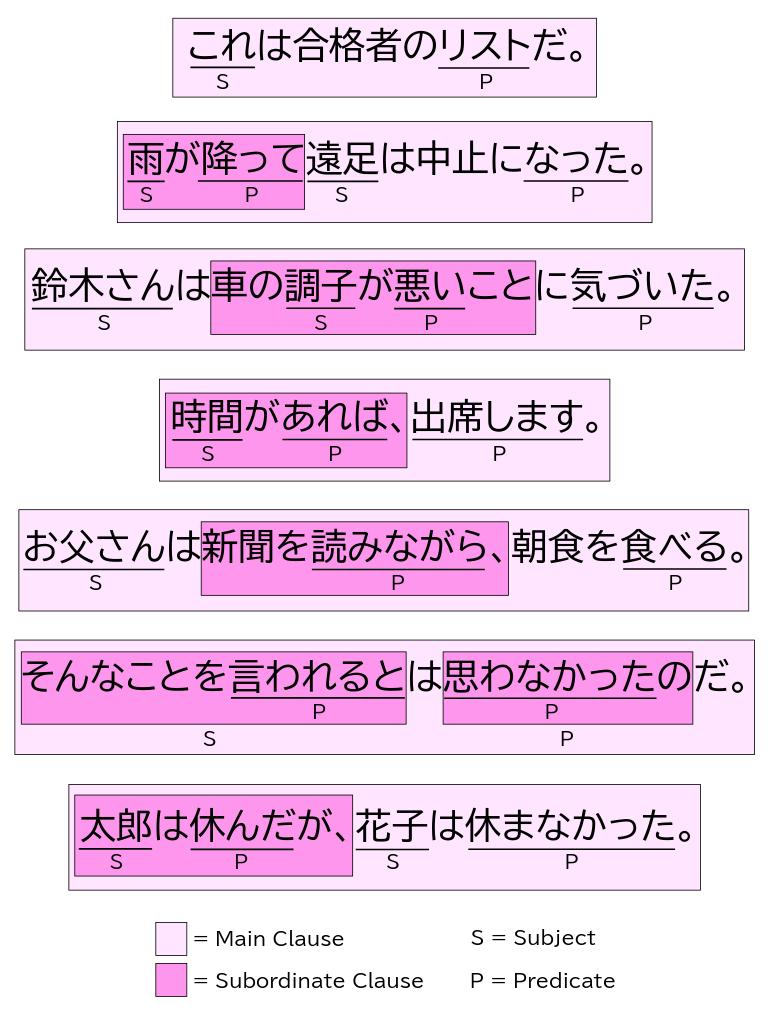
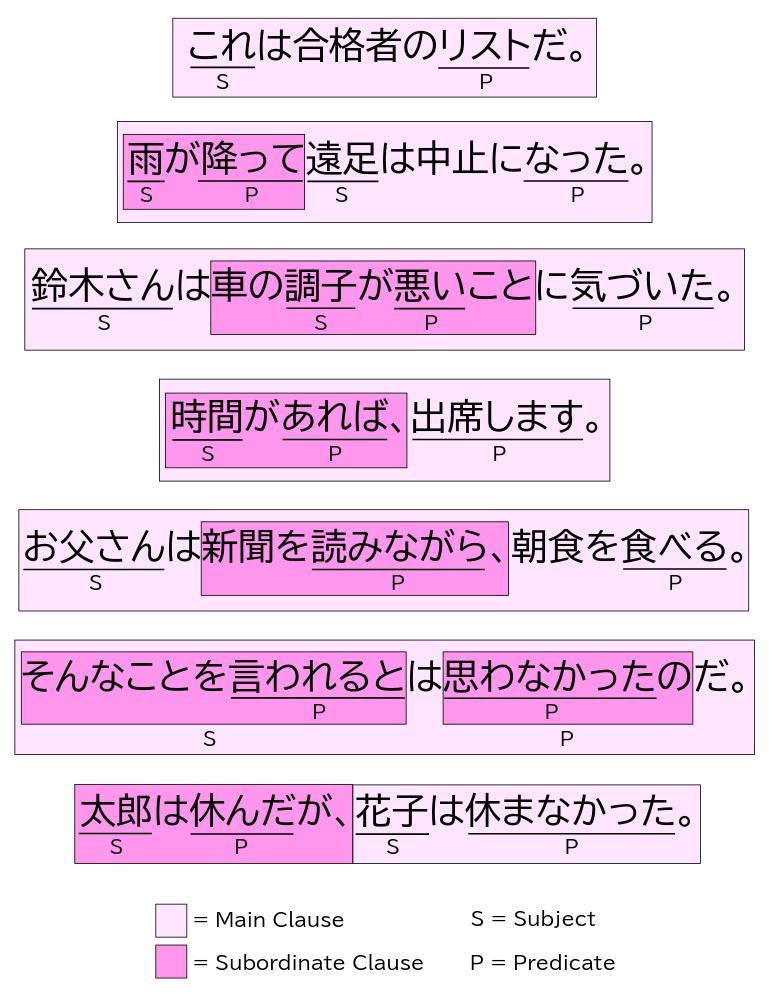
started examples for subord

Changed region(s): [[0.0, 0.0311, 0.9987, 0.9328], [0.6866, 0.0311, 0.749, 0.0622], [0.2185, 0.9328, 0.2497, 0.9639]]

diff --git a/_posts/2024-07-20-wa-vs-ga-2.md b/_posts/2024-07-20-wa-vs-ga-2.md
@@ -66,17 +66,54 @@ This principle is also known as the **principle of subordination**. We use this 
 
 A clause in Japanese is a unit of the language which is **shorter than a sentence** and **longer than its words or phrases**. In its most typical form, each clause in Japanese contains a **subject and a predicate**. It may also contain other words/phrases marked by case markers like を, に, or で; as well as adverbs. You will also come across clauses where the subject isn't explicitly present. Omitting the subject is much more common in Japanese than it is in English.
 
-When a sentence has two or more clauses, the clause with its predicate at the end of the sentence is usually the **main clause**. All clauses that are nested within it are **subordinate clauses**.[^2] If a sentence only has one clause, then that clause is the main clause. Take a look at the following sentences with their clauses highlighted.
+When a sentence has two or more clauses, the clause with its predicate at the end of the sentence is usually the **main clause**. All clauses that are nested within it or come before it are **subordinate clauses**.[^2] If a sentence only has one clause, then that clause is the main clause. Take a look at the following sentences with their clauses highlighted.
 
-[^2]: It's also possible for subordinate clauses to be nested within subordinate clauses.
+[^2]: It's also possible for subordinate clauses to be nested within subordinate clauses. In the image, I use the convention that weakly subordinate clauses are not nested within the main clause; while quotations, strongly subordinate clauses and fully subordinate clauses are. Sentences are from 丸山 (2016) and 劉 (2022).
 
 ![Various structures of subordinate clauses](assets/img/subord.jpg)
 
 Sometimes, a subordinate clause without a subject will take the subject of the main clause. This is the case for the fifth sentence of the examples above (the subject of 読みながら is お父さん).
 
-## Rules of Subordinate Clauses
+## The Subject in Subordinate Clauses
 
-We will go over choosing は vs. が in main clauses in sections. For now, we will focus on how to use 
+We will go over choosing は vs. が in main clauses in sections. For now, let's focus on how to use these particles in subordinate clauses.
+
+There's a general rule that when は marks a subject at the start of a sentence with multiple clauses, it usually marks the subject of all of the clauses. が, on the other hand, usually only marks the subject within its own clause. In other words, whatever は marks is relevant to everything until the end of the sentence, while whatever が marks stays in its own clause. 
+
+This general rule works because **が is most commonly used in subordinate clauses**.
+
+Consider the following sentences (庵功雄, 2012).
+
+>太郎<u>は</u>部屋に入ると、すぐに電気をつけた。<br>太郎<u>が</u>部屋に入ると、すぐに電気をつけた。
+
+Highlighting the clauses gives us the following diagram.
+
+![太郎は部屋に入ると、すぐに電気をつけた。and 太郎が部屋に入ると、すぐに電気をつけた。](assets/img/subord1.jpg)
+
+Here are the correct interpretations of these sentences. 
+
+>太郎<u>は</u>部屋に入ると、すぐに電気をつけた。<br>*As soon as Tarou entered the room, <b><u>he</u></b> turned on the light.*
+
+>太郎<u>が</u>部屋に入ると、すぐに電気をつけた。<br>*As soon as Tarou entered the room, <b><u>I</u></b> turned on the light.*
+
+We change our interpretation of who turns on the light depending on whether は or が is used. In the first example with は, the subject/topic 太郎 **can't** be a part of the subordinate clause 部屋に入ると. This is only possible when 太郎 is not a topic and marked by が. 
+
+Thus, in the first example 太郎 is seen as the subject of both the subordinate clause and the main clause. In the second example, 太郎 is only seen as the subject of the subordinate clause. The subject of the main clause is instead omitted, so it should be clear through context **who else** turned the light on. Strictly speaking, it doesn't have to be "I", the speaker, who turned the light on. It could be someone else in the context of the sentence. But when Japanese speakers omit a subject, they're commonly referring to themselves.
+
+The subordinate clause in the last two examples can't contain a topic. But this isn't true of all subordinate clauses. This subordinate clause in particular is **strongly subordinate**, which means it has a high level of subordination to the main clause. 
+
+## Levels of Subordination
+
+There are four **levels of subordination**, described in the following table.
+
+||Description|
+|:--:|--|--|
+|Full Subordination | This portion of the sentence can't contain any topics or subjects at all, so they are actually phrases, not clauses. |
+|Strong Subordination | The subordinate clause is completely dependent on the main clause. It can contain a subject, but not a topic. |
+|Weak Subordination | The subordinate clause functions like a separate sentence, but still makes up one sentence with the main clause. It can contain a subject or a topic. Rules for choosing between は/が are generally the same as that for the main clause. |
+|Quotative | The subordinate clause is a quote. It can contain a subject or a topic. Rules for choosing between は/が are generally the same as that for the main clause.|
+
+We can usually figure out a subordinate clause's level of subordination by looking at how it ends. The chart below gives common examples of subordinate clauses, as well as its level of subordination and whether that clause is able to contain subject-marking が and topic-marking は.
 
 <table class="tg" style="overflow-x: auto; width: 100%">
     <colgroup>
@@ -98,7 +135,7 @@ We will go over choosing は vs. が in main clauses in sections. For now, we wi
 <tbody>
   <tr>
     <td style="text-align: center;" class="tg-0pky" rowspan="2">Fully<br>Subordinate</td>
-    <td style="text-align: right;" class="tg-0pky">Incidental Clauses</td>
+    <td style="text-align: right;" class="tg-0pky">Incidental Phrases</td>
     <td class="tg-0pky">〜ながら, 〜&#8288;まま, 〜&#8288;て</td>
     <td class="tg-0pky" rowspan="2">×</td>
     <td class="tg-0pky" rowspan="2">×</td>
@@ -115,11 +152,11 @@ We will go over choosing は vs. が in main clauses in sections. For now, we wi
     <td class="tg-0pky" rowspan="7">×</td>
   </tr>
   <tr>
-    <td style="text-align: right;" class="tg-0pky">Suppositional Clauses</td>
+    <td style="text-align: right;" class="tg-0pky">Conditional Clauses</td>
     <td class="tg-0pky">〜たら, 〜(れ)ば, 〜と, 〜&#8288;ては, 〜&#8288;ても</td>
   </tr>
   <tr>
-    <td style="text-align: right;" class="tg-0pky">Situational Clauses</td>
+    <td style="text-align: right;" class="tg-0pky">Manner Clauses</td>
     <td class="tg-0pky">〜ように, 〜ほど</td>
   </tr>
   <tr>
@@ -135,12 +172,12 @@ We will go over choosing は vs. が in main clauses in sections. For now, we wi
     <td class="tg-0pky">〜こと, 〜の, 〜&#8288;か</td>
   </tr>
   <tr>
-    <td style="text-align: right;" class="tg-0pky">Causal Clauses</td>
+    <td style="text-align: right;" class="tg-0pky">Causal Clauses (1)</td>
     <td class="tg-0pky">〜ため, 〜て, 〜から(focus), 〜ので(focus), 〜&#8288;のに(focus)</td>
   </tr>
   <tr>
     <td style="text-align: center;" class="tg-0pky" rowspan="2">Weakly<br>Subordinate</td>
-    <td style="text-align: right;" class="tg-0pky">Causal Clauses</td>
+    <td style="text-align: right;" class="tg-0pky">Causal Clauses (2)</td>
     <td class="tg-0pky">〜から, 〜ので, 〜&#8288;のに</td>
     <td class="tg-0pky" rowspan="2">○</td>
     <td class="tg-0pky" rowspan="2">○</td>
@@ -158,13 +195,86 @@ We will go over choosing は vs. が in main clauses in sections. For now, we wi
   </tr>
 </tbody></table>
 
-## Basic Principles of は/が in Clauses
+## Examples of subordinate clauses＜＞
+
+### Incidental Phrases (付帯状況句)
+
+><span style="color: #ff96ed">[そんなことを考えながら、]</span>眠りについた。<br>*With my mind full of such thoughts, I fell asleep.*
+
+>私は<span style="color: #ff96ed">[目を見開いたまま、]</span>固まってしまった。<br>*I froze with my eyes wide open.*
+
+>皆が席に着くのを確認すると男は<span style="color: #ff96ed">[教壇に立って]</span>話し始めた。<br>*After waiting for everyone to be seated, the man stood at the lecturn and started to speak.*
+
+### Successive Phrases (継起句)
+
+>健一は<span style="color: #ff96ed">[部屋に入っていって]</span>由紀に声をかけた。<br>*Ken'ichi came in and started talking to Yuki.*
+
+>夕食後、僕は<span style="color: #ff96ed">[シャワーを浴び、]</span>歯をみがいた。<br>*After eating dinner, I showered and brushed my teeth.*
+
+### Successive Clauses (継起節)
+
+><span style="color: #ff96ed">[健一が部屋に入っていくと、]</span>由紀は出ていった。<br>*After Ken'ichi came in, Yuki left.*
+
+><span style="color: #ff96ed">[そんなことを考えていたら、]</span>部屋にノックの音が響いた。<br>*As I was thinking about it, I heard a knock on my door.*
+
+><span style="color: #ff96ed">[雨が降って]</span>遠足は中止になった。<br>*It rained, and the outing was postponed.*
+
+><span style="color: #ff96ed">[目の前が真っ暗になり、]</span>意識が遠ざかっていく。<br>*My vision went dark, and I felt myself losing consciousness.*
+
+### Conditional Clauses (仮定節)
+
+><span style="color: #ff96ed">[困ったことがあったら]</span>相談してください。<br>*If there's ever anything troubling you, please reach out to me.*
+
+><span style="color: #ff96ed">[私にできることがあれば、]</span>なんでもおっしゃってください<br>*If there's anything I can do, please tell me.*
+
+><span style="color: #ff96ed">[早く帰らないと、]</span>両親が心配するだろう。<br>*If I don't get home soon, my folks are going to worry.*
+
+><span style="color: #ff96ed">[こんなに雪が降っては、]</span>どこにも出かけられない。<br>*If it keeps snowing like this, I won't be able to go anywhere.*
+
+><span style="color: #ff96ed">[私が謝っても]</span>許してもらえませんか。<br>*Would you forgive me if I said I'm sorry?*
+
+### Manner Clauses (様態節)
+
+>俺は<span style="color: #ff96ed">[その場から逃げるように]</span>立ち去った。<br>*I left quickly to escape that situation.*
+
+>それは<span style="color: #ff96ed">[思わず息を呑むほど]</span>美しい光景だった。<br>*It was a view so beautiful, you'd find yourself holding your breath.*
+
+### Temporal Clauses (時間節)
+
+><span style="color: #ff96ed">[目が覚めた時、]</span>周囲は真っ暗だった。<br>*When I woke up, everything was dark.*
+
+><span style="color: #ff96ed">[疑問や文句が出るまえに、]</span>頭を衝撃が襲う。<br>*I was too stunned to protest or question anything.*
+
+>彼女は<span style="color: #ff96ed">[しばらく何かを考え込んだ後で]</span>口を開いた。<br>*After thinking for a short moment, she spoke.*
+
+><span style="color: #ff96ed">[その理由が分かるまで、]</span>そう時間はかからなかった。<br>*It didn't take long for me to figure out why.*
+
+### Noun-modifying Clauses (連体修飾節)
+
+>やっぱり<span style="color: #ff96ed">[映画館で見る映画]</span>はいいよな。<br>*Movies are so much better in theaters.*
+
+### Nominalized Clauses (名詞節)
+
+>それは<span style="color: #ff96ed">[この場にいる全員が思っていること]</span>だった。<br>*That was what everyone in the room was thinking.*
+
+><span style="color: #ff96ed">[私が知っているの]</span>はこれだけです。<br>*That is all I know.*
+
+>その後、<span style="color: #ff96ed">[二人がどうなったか]</span>は知らない。<br>*I don't know what happened to those two afterwards.*
+
+### Causal Clauses (理由節)
+
+><span style="color: #ff96ed">[訓練を始めて日が浅いため、]</span>それほど上達はしていない。<br>*It hasn't been long since he started training, so he hasn't improved much yet.*
+
+><span style="color: #ff96ed">[彼が帰って、]</span>会は面白くなった。<br>*After he left, the party got interesting.*
 
 
 
-太郎は部屋に入ると、( WHO? )すぐに電気をつけた。
+### Parallel Clauses (並列節)
 
-Examples of incidental clauses
+><span style="color: #ff96ed">[兄は銀行に入って、]</span>姉は大学に残った。<br>*My brother went into the bank, and my sister stayed at the college.*
+
+><span style="color: #ff96ed">[おじいさんは山へ行き、]</span>おばあさんは川へ行った。<br>*The old man went into the mountains, and the old woman went to the river.*
+
 
 # <a name="toppres" style="text-decoration: none;">Is There a Topic?
 
@@ -599,16 +709,22 @@ search 質問
 
 # Citations 
 
+庵功雄 (2012).『新しい日本語学入門 ことばのしくみを考える（第2版）』スリーエーネットワーク, 86.
+
 久野暲 (1972). Functional Sentence Perspective: A Case Study from Japanese and English. Linguistic Inquiry, 3(3), 269–320. http://www.jstor.org/stable/4177715
 
-松下大三郎. (1930). 標準日本口語法. 中文館書店
+松下大三郎. (1930). 標準日本口語法. 中文館書店.
 
-三尾砂. (1948). 國語法文章論. 三省堂
+丸山. (2016). 現代日本語における節の分類体系について.
 
-三上章. (1953). 現代語法序説ーシンタクスの試みー. 刀江書院
+三尾砂. (1948). 國語法文章論. 三省堂.
 
-三上章. (1963). 日本語の論理. くろしお出版
+三上章. (1953). 現代語法序説ーシンタクスの試みー. 刀江書院.
 
-南不二男. (1974). 現代日本語の構造. 大修館書店
+三上章. (1963). 日本語の論理. くろしお出版.
+
+南不二男. (1974). 現代日本語の構造. 大修館書店.
+
+劉, 志. (2022). ハとガに関する平面式説明の提案 : フローチャート式の対案として. 埼玉大学紀要. 教養学部, 57(2), 123-144.
 
 # Notes

diff --git a/_posts/2024-07-20-wa-vs-ga-1.md b/_posts/2024-07-20-wa-vs-ga-1.md
@@ -50,16 +50,16 @@ The subject is not the only part of a sentence that は can topicalize. The most
 
 Unlike the case markers が and を, は is classified as a binding particle (*kakarijoshi*). 
 
-What sets が (and を) apart from other common case markers is that when は topicalizes something that is already marked by が (or を), が (or を) is dropped from it completely. In other words, you'll never hear <span style="color: #ff0040">「×ここがは～」</span> or <span style="color: #ff0040">「×ここをは～」</span>. に is also sometimes dropped.
+What sets が (and を) apart from other common case markers is that when は topicalizes something that is already marked by が (or を), が (or を) is dropped from it completely. In other words, you'll never hear <span style="color: #ff0040">「×ここがは～」</span> or <span style="color: #ff0040">「×ここをは～」</span>. に, で, and へ are also sometimes dropped.
 
 
 | Case Marked Element + は      | Topicalized Result      |
 | ------------- | ------------- |
 | ここが   + は | <span style="color: #a5fc67">ここは</span> |
 | ここを   + は | <span style="color: #a5fc67">ここは</span> |
-| ここに   + は | ここには |
-| ここで   + は | ここでは |
-| ここへ   + は | ここへは |
+| ここに   + は | ここには or <span style="color: #a5fc67">ここは</span> |
+| ここで   + は | ここでは or <span style="color: #a5fc67">ここは</span> |
+| ここへ   + は | ここへは or <span style="color: #a5fc67">ここは</span> |
 | ここと   + は | こことは |
 | ここから + は | ここからは |
 | ここまで + は | ここまでは |
